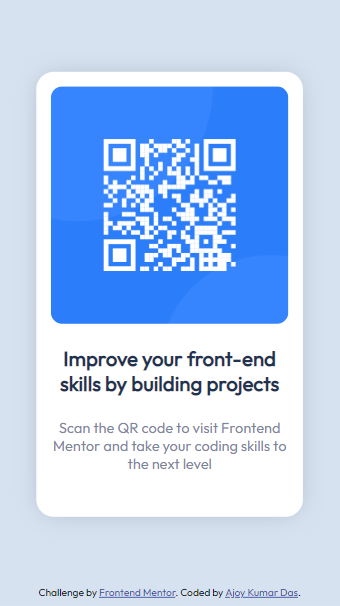
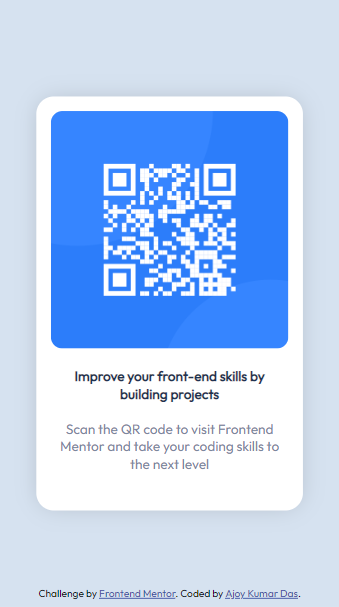
improvements-02

diff --git a/styles.css b/styles.css
@@ -16,6 +16,10 @@
 
 /* =======Body======= */
 body{
+    min-height: 100vh;
+    display: flex;
+    align-items: center;
+    justify-content: center;
     font-size: 1rem;
     font-family: 'Outfit', sans-serif;
     background: var(--Light-gray);
@@ -23,15 +27,14 @@ body{
 
 /* =======QR code component======= */
 .qr-code-component{
-    width: 18.3rem;
-    margin: 5rem auto auto;
-    padding: 1rem 1rem 3rem;
+    max-width: 18.3rem;
+    padding: 1rem 1rem 2.5rem;
 
     display: flex;
     flex-direction: column;
     align-items: center;
     justify-content: space-between;
-    gap: 1.5rem;
+    gap: 1rem;
 
     border-radius: 1.2rem;
     background: var(--White);
@@ -42,24 +45,28 @@ body{
     -moz-box-shadow: 0px 0px 27px -6px rgba(0,0,0,0.2);
 }
 .qr-code{
-    width: 100%;
+    max-width: 100%;
     border-radius: 0.8rem;
 }
 .qr-header{
-    font-size: 1.4rem;
+    font-size: 0.9375rem;
     font-weight: 700;
+    text-align: center;
     color: var(--Dark-blue);
+    margin: 0.3rem 0.3rem 0 0.3rem;
 }
 .qr-content{
+    font-size: 0.9375rem;
     font-weight: 400;
+    text-align: center;
     color: var(--Grayish-blue);
+    margin: 0.3rem 0.3rem 0.1rem 0.3rem;
 }
 
 /* =======Attribution======= */
 .footer { 
     position: absolute;
-    bottom: 0.5rem; 
-    width: 100%;
+    bottom: 0.5rem;
 }
 .attribution{
     font-size: 0.7rem; 
@@ -72,6 +79,6 @@ body{
 /* =======Media queries======= */
 @media only screen and (min-width: 376px){
     .qr-code-component{
-        width: 19rem;
+        max-width: 19rem;
     }
 }

diff --git a/index.html b/index.html
@@ -17,13 +17,15 @@
     <main class="qr-code-component">
         <img src="assets/images/image-qr-code.png" alt="QR code to Frontendmentor.io" class="qr-code">
         <h1 class="qr-header">Improve your front-end skills by building projects</h1>
-        <p class="qr-content">Scan the QR code to visit Frontend Mentor and take your coding skills to the next level</p>
+        <p class="qr-content">Scan the QR code to visit Frontend Mentor and take your coding skills to the next level
+        </p>
     </main>
 
     <footer class="footer">
         <div class="attribution">
             Challenge by
-            <a href="https://www.frontendmentor.io?ref=challenge" target="_blank">Frontend Mentor</a>. Coded by <a href="https://github.com/ajoykumardas12" target="_blank">Ajoy Kumar Das</a>.
+            <a href="https://www.frontendmentor.io?ref=challenge" target="_blank">Frontend Mentor</a>. Coded by <a
+                href="https://github.com/ajoykumardas12" target="_blank">Ajoy Kumar Das</a>.
         </div>
     </footer>
 </body>

diff --git a/README.md b/README.md
@@ -46,7 +46,6 @@ Improving skills through challenges is fun. Completing this challenge I practice
 ### Useful resources
 
 - [CSS Flexbox](https://www.w3schools.com/css/css3_flexbox.asp) - This helped me with layout and positioning using CSS flexbox.
-- [CSS Box Shadow](https://developer.mozilla.org/en-US/docs/Web/CSS/box-shadow) - This helped me learn about CSS box-shadow.
 
 ## Author
 
